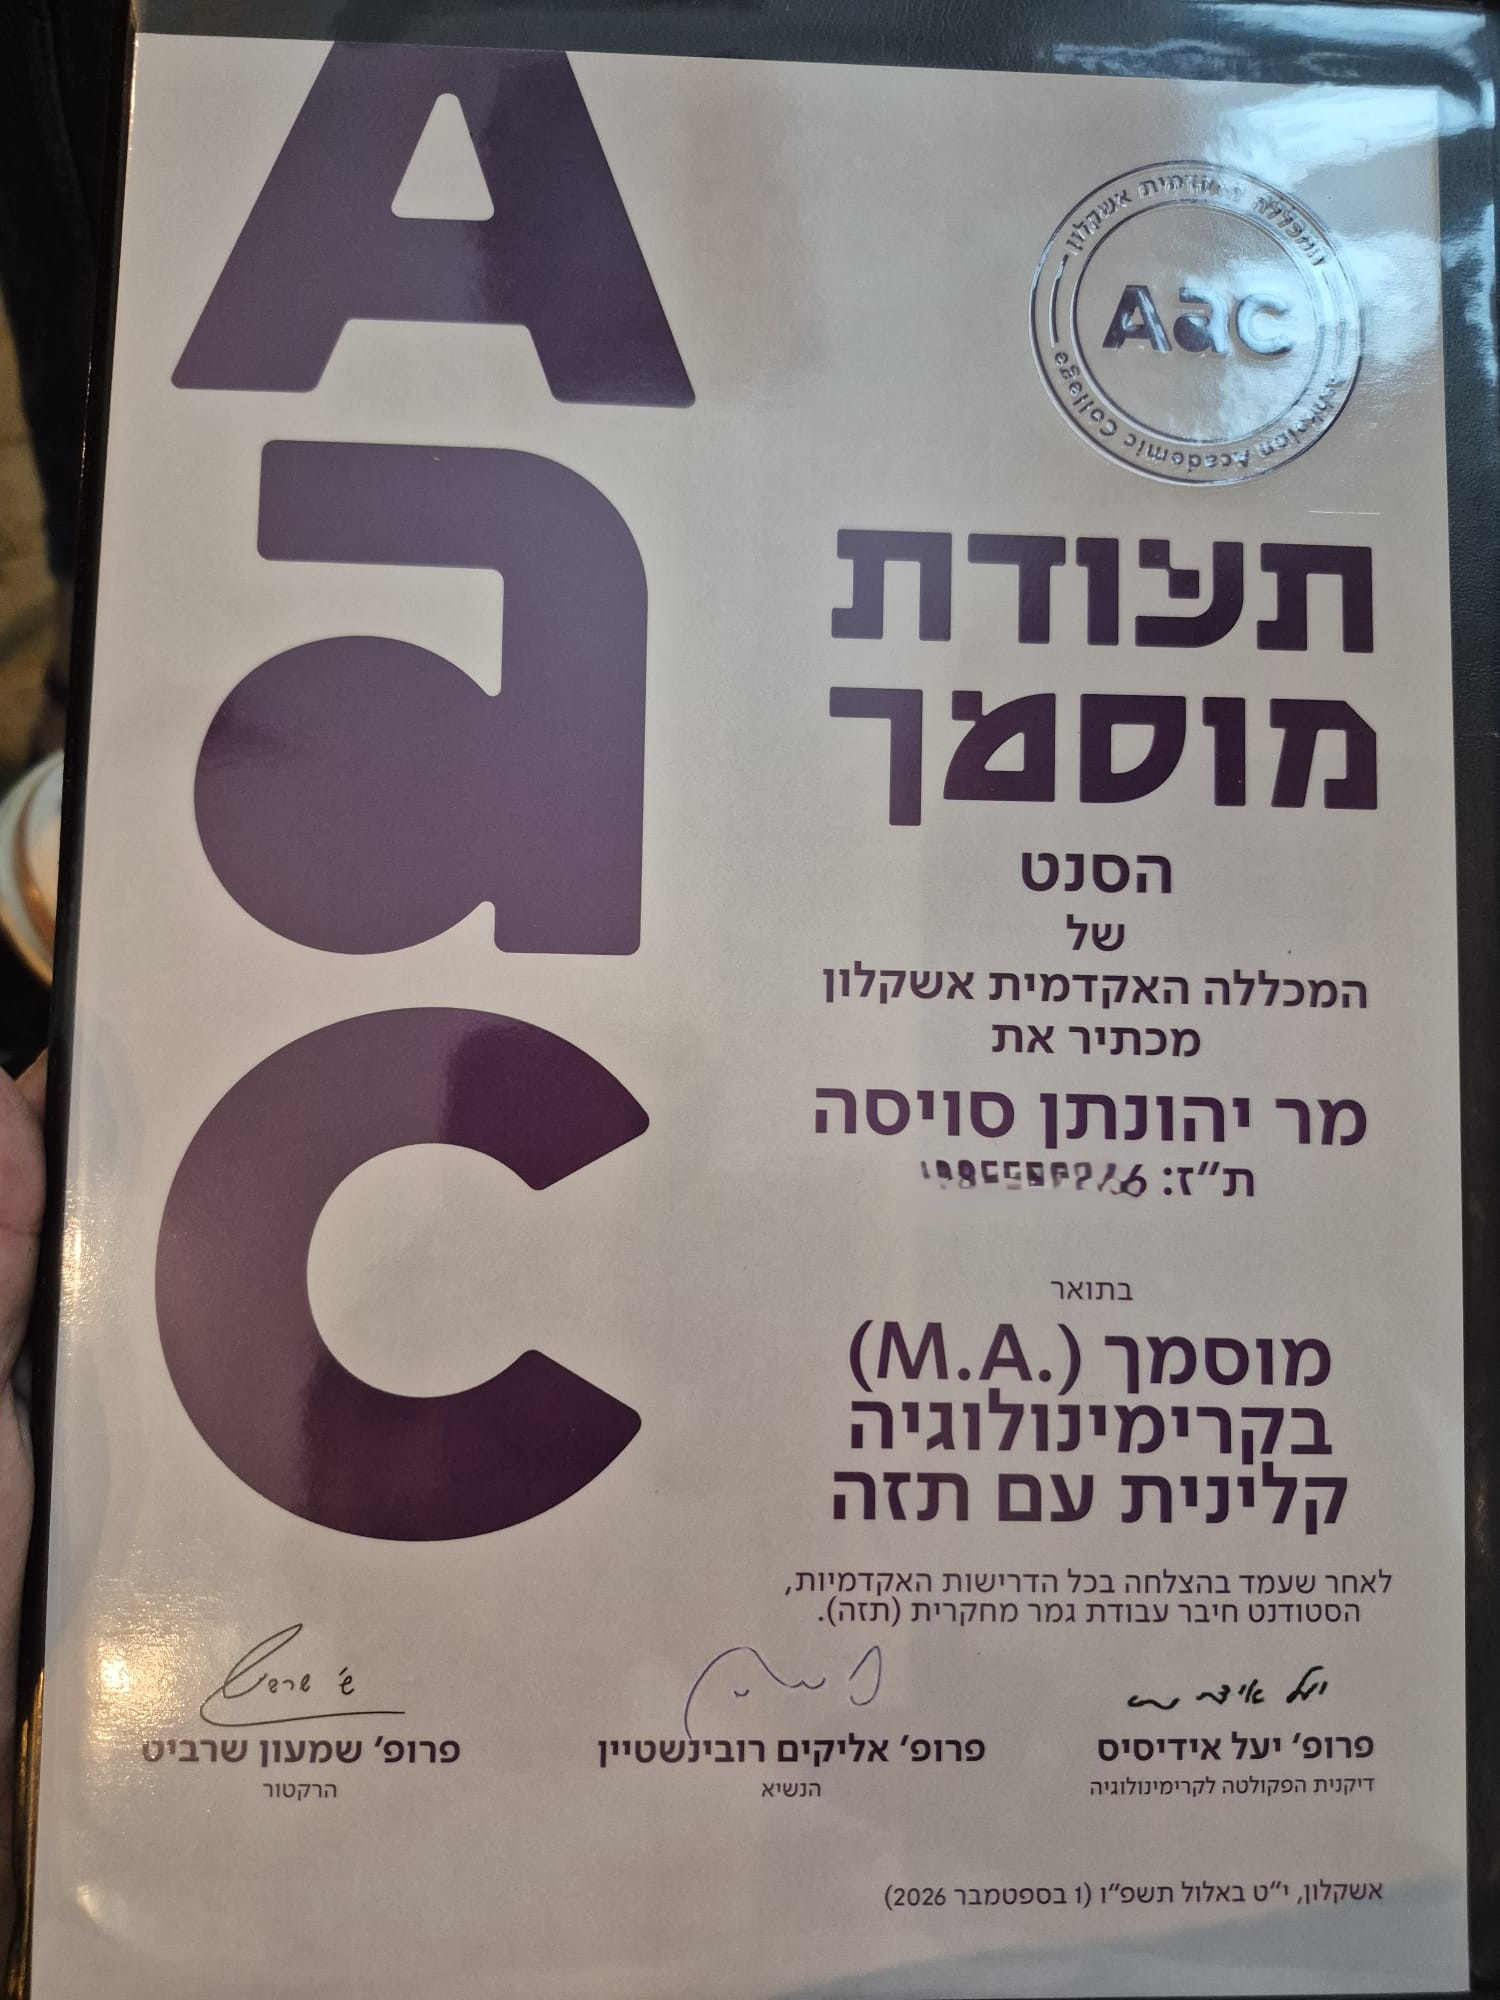
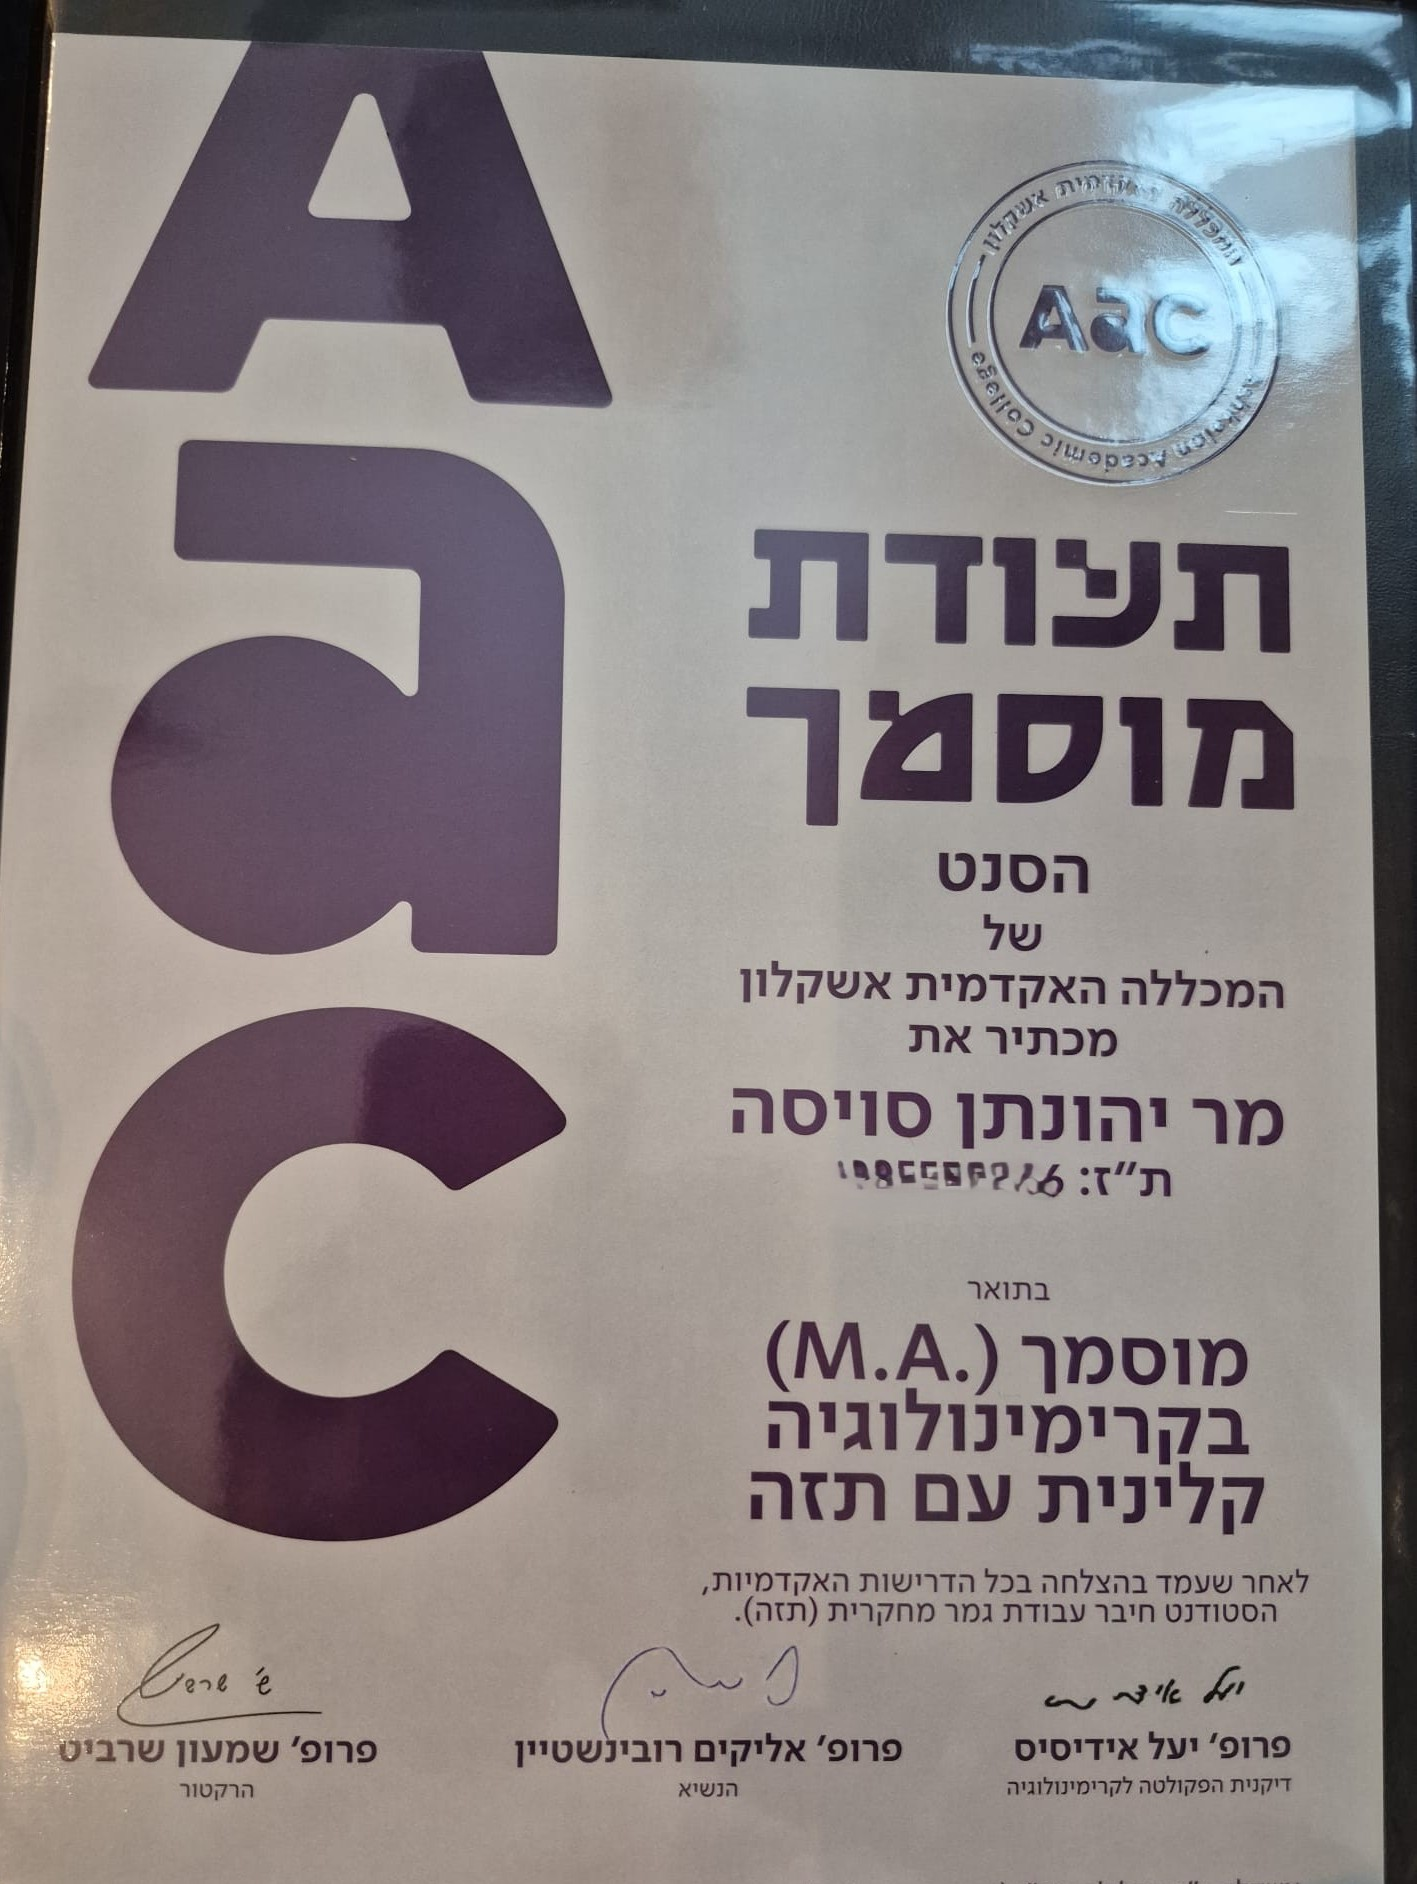
Replace masters degree certificate photograph

diff --git a/docs/index.html b/docs/index.html
@@ -96,7 +96,7 @@
 <div class="certificates-heading"><h2 id="certificates-title">הכשרות ותעודות</h2><button type="button" class="certificates-close" data-certificates-close aria-label="סגירת חלון הכשרות ותעודות" autofocus>סגירה</button></div>
 <ul class="certificates-list">
 <li class="certificate-card"><h3>הדרכת כלבנות טיפולית</h3><p><bdi dir="ltr">My-Dog College</bdi></p><div class="certificate-photo"><img data-certificate-src="assets/images/certificates/therapeutic-dog-training.jpeg" width="1080" height="757" alt="תעודת סיום קורס מדריכי כלבנות טיפולית של יוני סויסה, My-Dog College" decoding="async"></div><a class="certificate-full" href="assets/images/certificates/therapeutic-dog-training.jpeg" target="_blank" rel="noopener noreferrer">פתיחת התעודה בגודל מלא<span class="sr-only">: הדרכת כלבנות טיפולית (נפתח בחלון חדש)</span></a><p class="certificate-status" data-certificate-status role="status"></p></li>
-<li class="certificate-card"><h3>תואר שני בקרימינולוגיה קלינית עם תזה</h3><p>המכללה האקדמית אשקלון · <bdi dir="ltr">M.A.</bdi></p><div class="certificate-photo"><img data-certificate-src="assets/images/certificates/clinical-criminology-ma.jpeg" width="1500" height="2000" alt="תעודת תואר שני בקרימינולוגיה קלינית עם תזה של יהונתן סויסה, המכללה האקדמית אשקלון" decoding="async"></div><a class="certificate-full" href="assets/images/certificates/clinical-criminology-ma.jpeg" target="_blank" rel="noopener noreferrer">פתיחת התעודה בגודל מלא<span class="sr-only">: תואר שני בקרימינולוגיה קלינית עם תזה (נפתח בחלון חדש)</span></a><p class="certificate-status" data-certificate-status role="status"></p></li>
+<li class="certificate-card"><h3>תואר שני בקרימינולוגיה קלינית עם תזה</h3><p>המכללה האקדמית אשקלון · <bdi dir="ltr">M.A.</bdi></p><div class="certificate-photo"><img data-certificate-src="assets/images/certificates/clinical-criminology-ma.jpeg?v=20261119" width="1417" height="1884" alt="תעודת תואר שני בקרימינולוגיה קלינית עם תזה של יהונתן סויסה, המכללה האקדמית אשקלון" decoding="async"></div><a class="certificate-full" href="assets/images/certificates/clinical-criminology-ma.jpeg?v=20261119" target="_blank" rel="noopener noreferrer">פתיחת התעודה בגודל מלא<span class="sr-only">: תואר שני בקרימינולוגיה קלינית עם תזה (נפתח בחלון חדש)</span></a><p class="certificate-status" data-certificate-status role="status"></p></li>
 <li class="certificate-card"><h3>תואר ראשון בקרימינולוגיה</h3><p>המכללה האקדמית אשקלון · <bdi dir="ltr">B.A.</bdi></p><div class="certificate-photo"><img data-certificate-src="assets/images/certificates/criminology-ba.jpeg" width="1184" height="1600" alt="תעודת תואר ראשון בקרימינולוגיה של יהונתן סויסה, המכללה האקדמית אשקלון" decoding="async"></div><a class="certificate-full" href="assets/images/certificates/criminology-ba.jpeg" target="_blank" rel="noopener noreferrer">פתיחת התעודה בגודל מלא<span class="sr-only">: תואר ראשון בקרימינולוגיה (נפתח בחלון חדש)</span></a><p class="certificate-status" data-certificate-status role="status"></p></li>
 </ul>
 </dialog>
